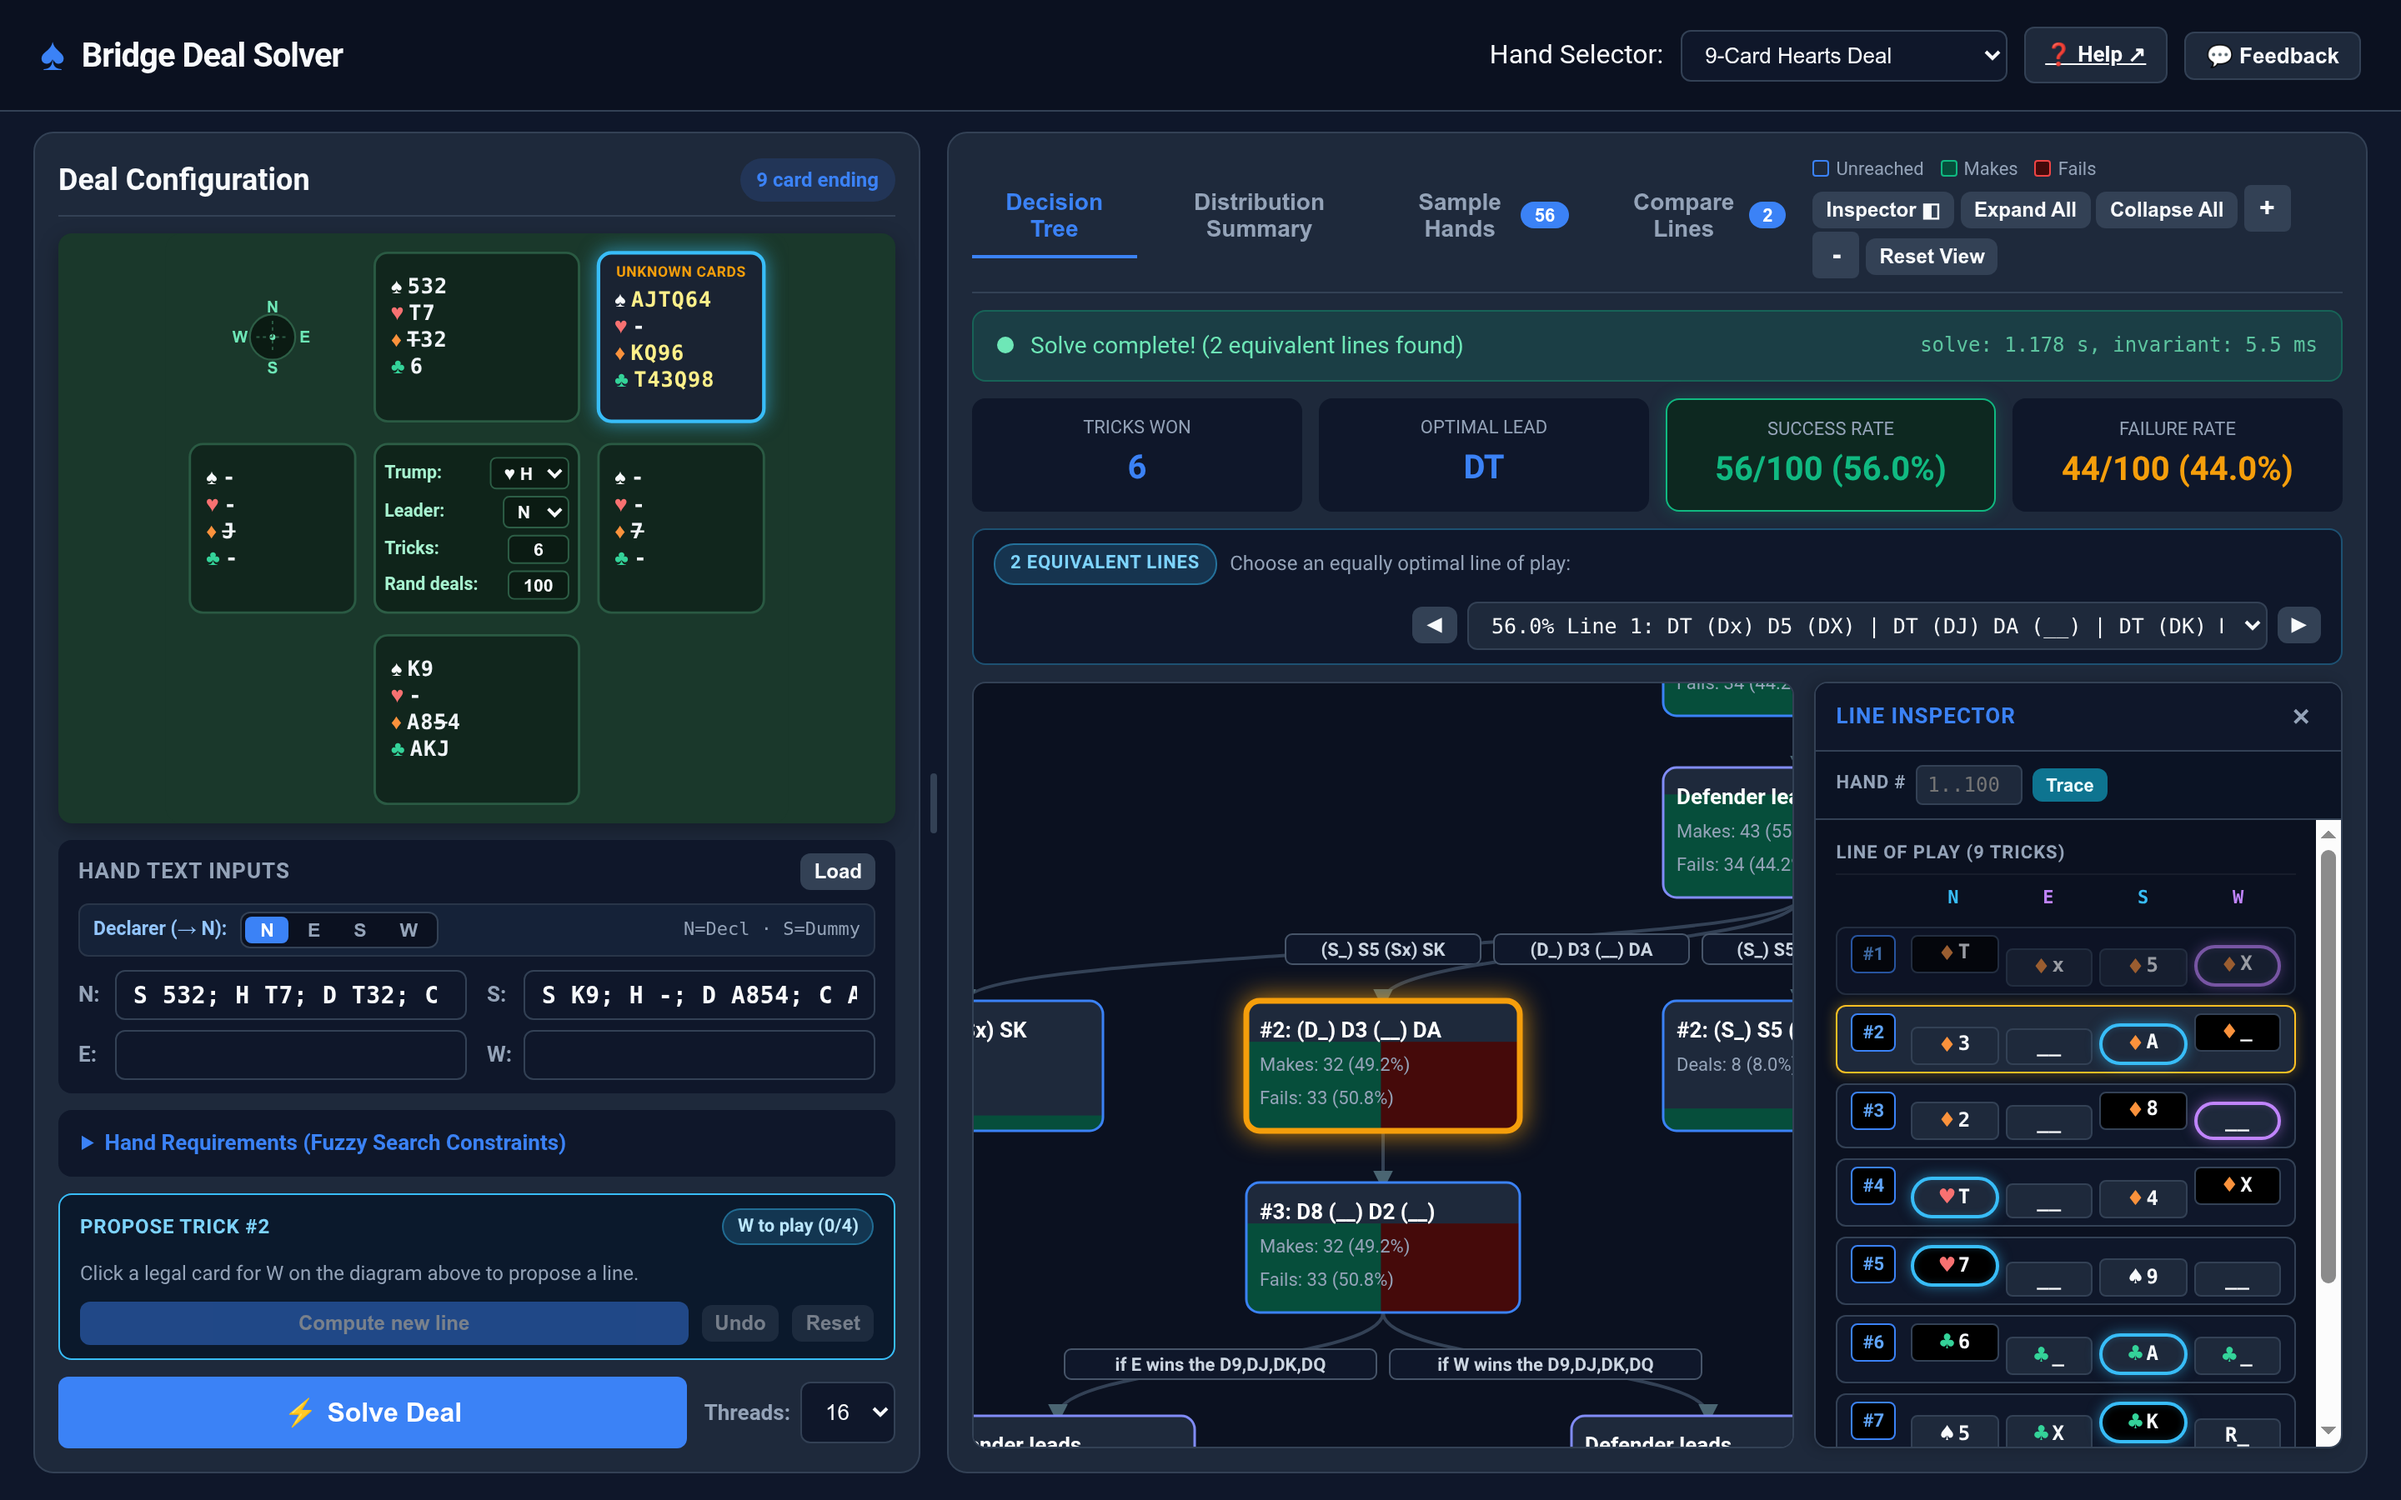
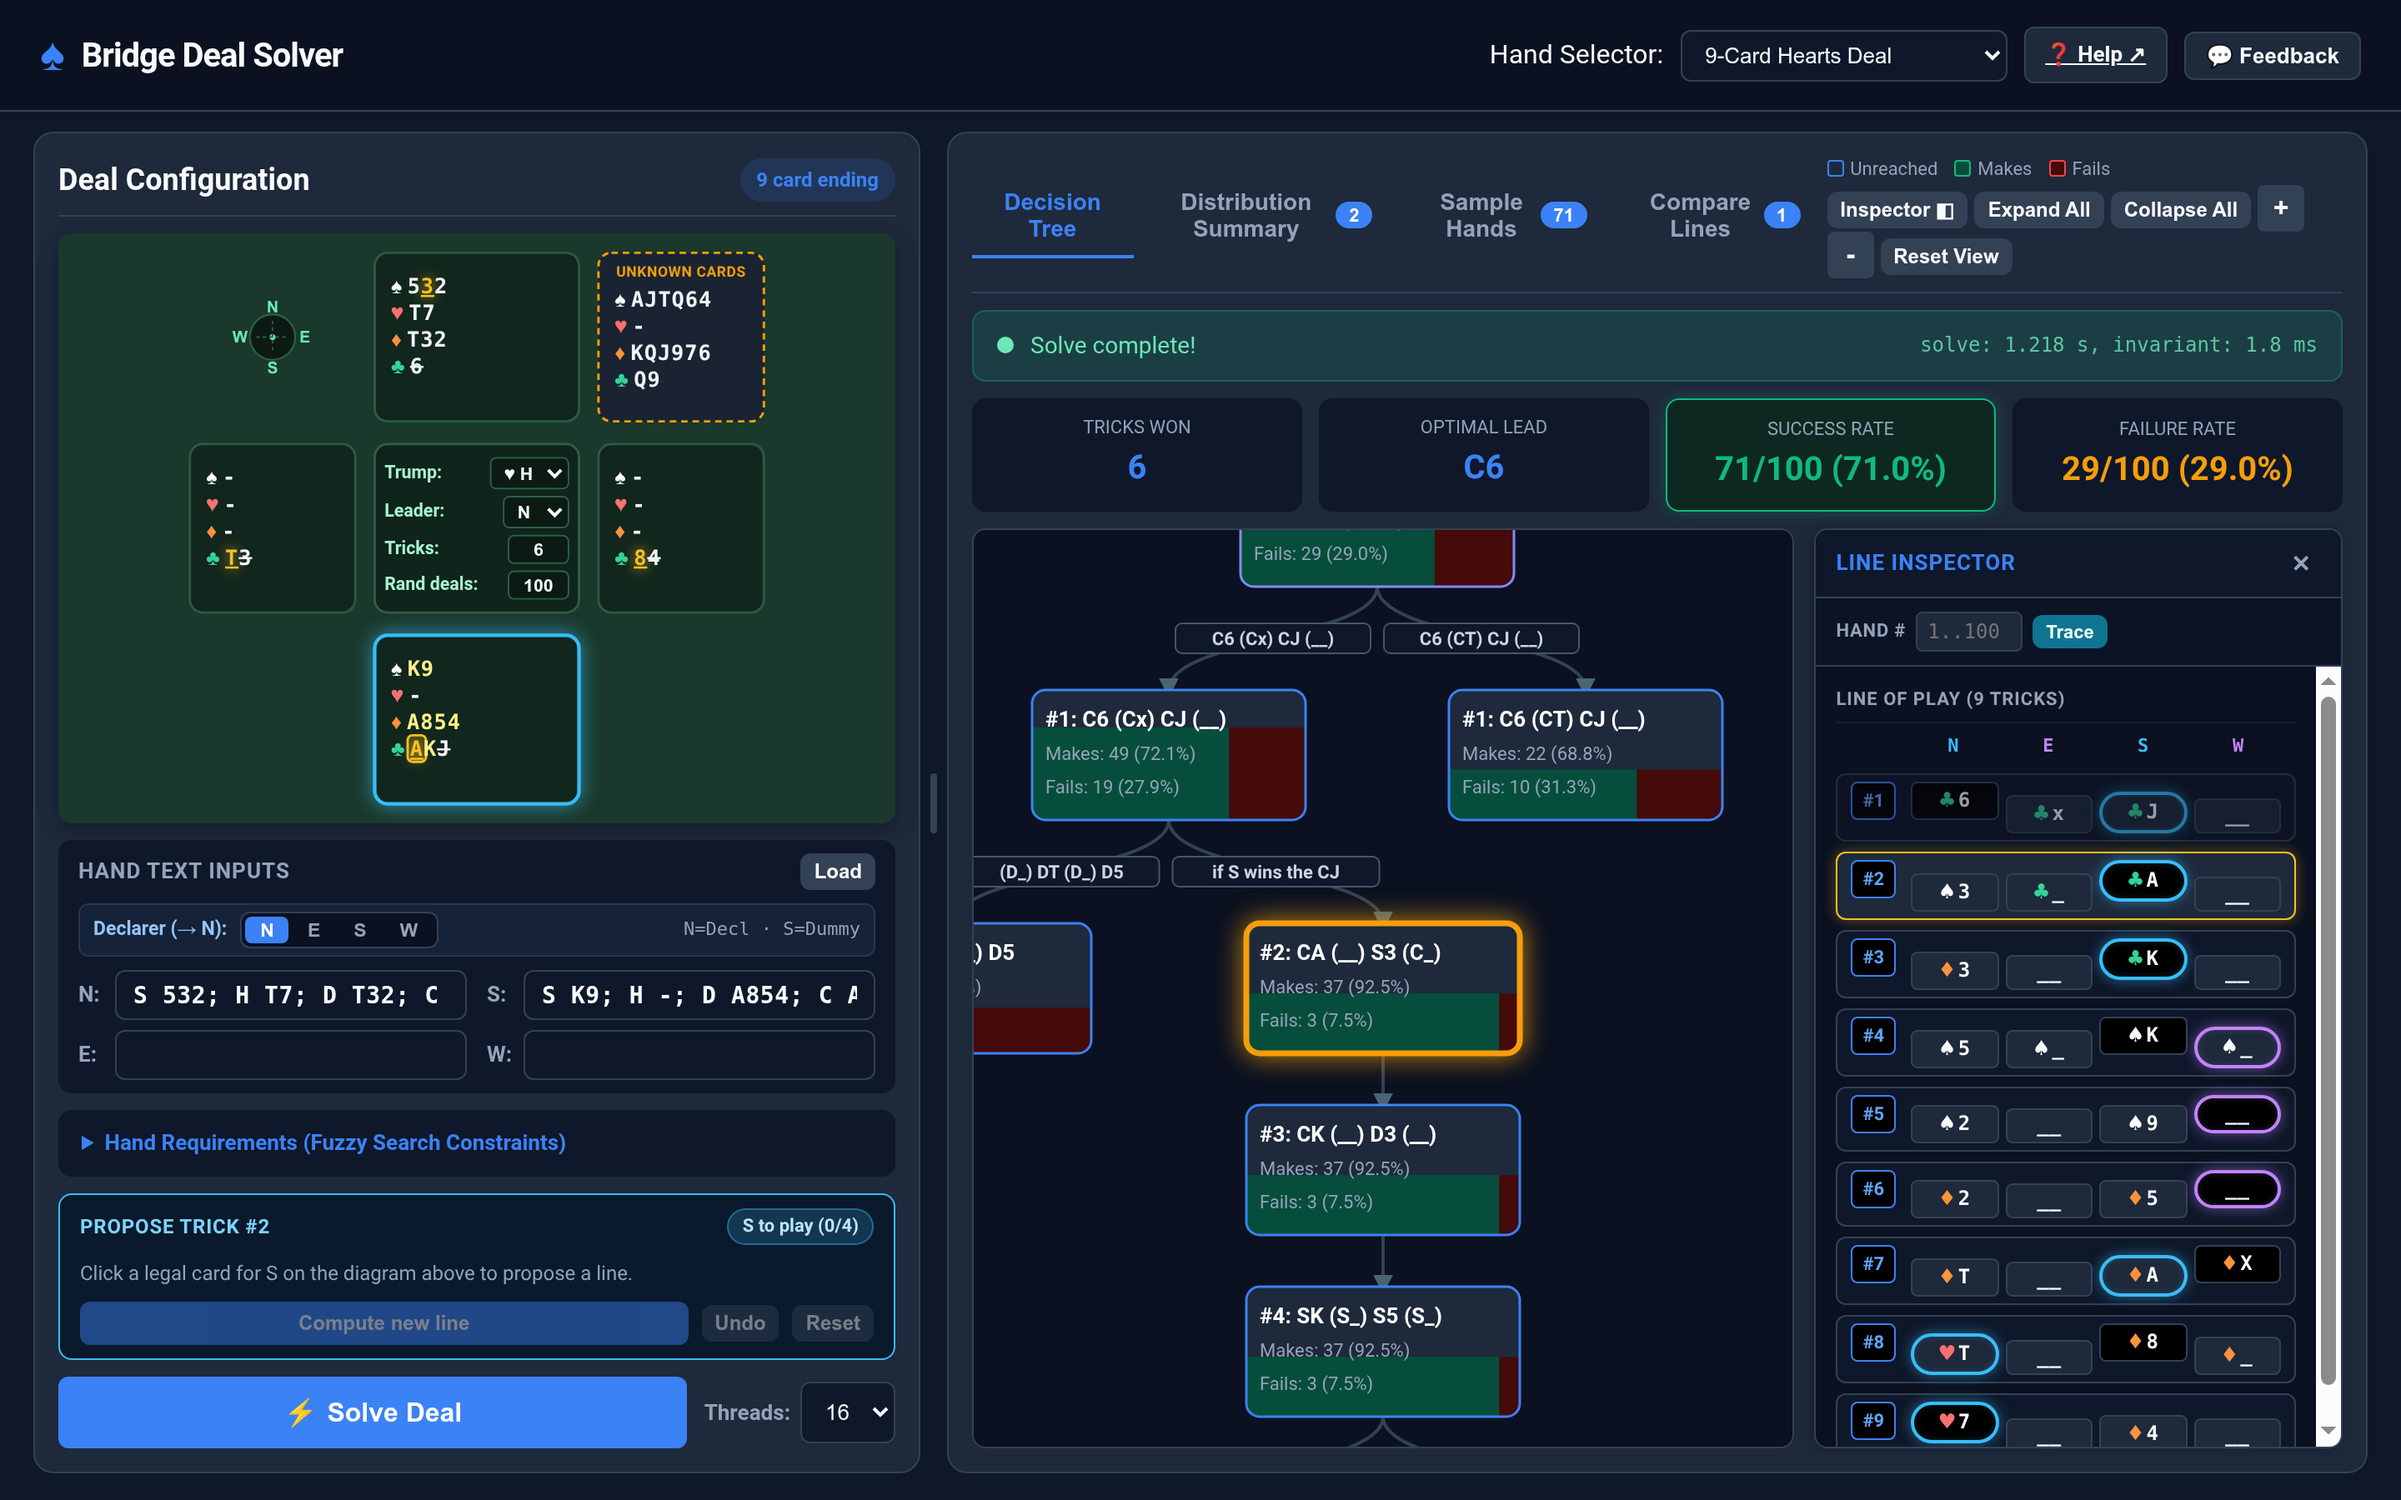
feat(ui): highlight selected trick cards and move E/W cards from Unknown Cards

diff --git a/web/static/app.js b/web/static/app.js
@@ -1925,17 +1925,23 @@ document.addEventListener('DOMContentLoaded', () => {
 
   function applyProposalStateToSvg() {
     if (!activeProposalContext) return;
-    const states = clonePlayStates(activeProposalContext.playedStates);
-    activeProposalContext.proposedCards.forEach((c, idx) => {
-      const entry = Object.assign({}, c, { isLead: idx === 0 });
-      if (c.fromUnknown) {
-        states.U.current.push(entry);
-      }
-      if (states[c.seatName]) {
-        states[c.seatName].current.push(entry);
-      }
-    });
-    activeTrickCardStates = states;
+    const minProposedCards = activeProposalContext.initialCurCount || 0;
+    if (activeProposalContext.proposedCards.length <= minProposedCards &&
+        activeProposalContext.selectedTrickStates) {
+      activeTrickCardStates = clonePlayStates(activeProposalContext.selectedTrickStates);
+    } else {
+      const states = clonePlayStates(activeProposalContext.playedStates);
+      activeProposalContext.proposedCards.forEach((c, idx) => {
+        const entry = Object.assign({}, c, { isLead: idx === 0 });
+        if (c.fromUnknown) {
+          states.U.current.push(entry);
+        }
+        if (states[c.seatName]) {
+          states[c.seatName].current.push(entry);
+        }
+      });
+      activeTrickCardStates = states;
+    }
     updateProposeLineBarUI();
     updateDealSvg();
   }
@@ -2131,6 +2137,13 @@ document.addEventListener('DOMContentLoaded', () => {
       if (tokenItems.length > 0) hasCards = true;
     });
 
+    const minProposedCards = activeProposalContext ? (activeProposalContext.initialCurCount || 0) : 0;
+    const isShowingSelectedTrickPreview = Boolean(
+      activeProposalContext &&
+      activeProposalContext.proposedCards.length <= minProposedCards &&
+      activeProposalContext.selectedTrickStates
+    );
+
     // Determine which suits are legal if this box is the active turn to play
     let legalSuits = null;
     if (playabilityInfo && playabilityInfo.isTurn) {
@@ -2138,7 +2151,9 @@ document.addEventListener('DOMContentLoaded', () => {
       if (playabilityInfo.forceLeadSuit && leadSuit) {
         legalSuits = new Set([leadSuit]);
       } else if (!isUnknown && leadSuit) {
-        const hasUnplayedLeadSuit = (suitTokenLists[leadSuit] || []).some(it => it.state === 'normal');
+        const hasUnplayedLeadSuit = (suitTokenLists[leadSuit] || []).some(
+          it => it.state === 'normal' || (isShowingSelectedTrickPreview && it.state === 'current')
+        );
         if (hasUnplayedLeadSuit) {
           legalSuits = new Set([leadSuit]);
         } else {
@@ -2190,7 +2205,8 @@ document.addEventListener('DOMContentLoaded', () => {
           const isPlayable = Boolean(
             legalSuits &&
             legalSuits.has(s.key) &&
-            item.state === 'normal'
+            (item.state === 'normal' ||
+             (isShowingSelectedTrickPreview && item.state === 'current' && !item.addedFromUnknown))
           );
           if (isPlayable) {
             cls += ' card-rank-playable';
@@ -2268,7 +2284,9 @@ document.addEventListener('DOMContentLoaded', () => {
       if (!suitKey) return false;
       const suits = parseHandToSuits(handStr);
       const baseTokens = tokenizeSuitRanks(suits[suitKey] || '-');
-      const st = activeTrickCardStates ? activeTrickCardStates[seatKey] : null;
+      const st = (activeProposalContext && activeProposalContext.playedStates)
+        ? activeProposalContext.playedStates[seatKey]
+        : (activeTrickCardStates ? activeTrickCardStates[seatKey] : null);
       const items = buildSeatSuitTokenList(suitKey, baseTokens, st, false);
       return items.some(it => it.state === 'normal');
     };
@@ -7259,6 +7277,11 @@ document.addEventListener('DOMContentLoaded', () => {
       }
 
       const selectedTrickRow = trickRows[selectedIdx];
+      const playedBeforeSelected = clonePlayStates(states);
+      const currentResolvedCards = resolveActualCardsForTrick(selectedTrickRow);
+      currentResolvedCards.forEach((c, idx) => recordCard(c, 'current', idx === 0));
+      const selectedTrickStates = clonePlayStates(states);
+
       const initCur = (selectedIdx === 0 && selectedTrickRow.trickNum === 1)
         ? getActiveInitialCurTrick()
         : [];
@@ -7283,7 +7306,8 @@ document.addEventListener('DOMContentLoaded', () => {
         selectedIdx: selectedIdx,
         leaderIdx: selectedTrickRow.leadSeatIdx,
         nsTricksBefore: nsTricksBefore,
-        playedStates: clonePlayStates(states),
+        playedStates: playedBeforeSelected,
+        selectedTrickStates: selectedTrickStates,
         prefixTrickRows: prefixTrickRows,
         initialCurCount: initialProposedCards.length,
         proposedCards: initialProposedCards.slice()

diff --git a/web/static/styles.css b/web/static/styles.css
@@ -1828,6 +1828,11 @@ body.is-resizing * {
   transition: fill 0.12s ease, filter 0.12s ease;
 }
 
+.card-rank-current.card-rank-playable {
+  fill: #fbbf24;
+  font-weight: 900;
+}
+
 .card-rank-playable:hover {
   fill: #38bdf8;
   text-decoration: underline;

diff --git a/web/server_test.cc b/web/server_test.cc
@@ -81,6 +81,7 @@ TEST(ServerTest, WebServerHealthAndStaticAssets) {
   ASSERT_TRUE(res_css->body.find(".card-chip.card-winner") != std::string::npos);
   ASSERT_TRUE(res_css->body.find("border-radius: 9999px") != std::string::npos);
   ASSERT_TRUE(res_css->body.find(".card-rank-playable") != std::string::npos);
+  ASSERT_TRUE(res_css->body.find(".card-rank-current.card-rank-playable") != std::string::npos);
   ASSERT_TRUE(res_css->body.find(".equivalent-lines-bar") != std::string::npos);
   ASSERT_TRUE(res_css->body.find(".compare-line-row") != std::string::npos);
   ASSERT_TRUE(res_css->body.find(".compare-stacked-bar") != std::string::npos);
@@ -111,6 +112,7 @@ TEST(ServerTest, WebServerHealthAndStaticAssets) {
   ASSERT_TRUE(res_js->body.find("function ensureCrossOriginIsolation") != std::string::npos);
   ASSERT_TRUE(res_js->body.find("function getNodeFillProportions") != std::string::npos);
   ASSERT_TRUE(res_js->body.find("node-fill-pat-") != std::string::npos);
+  ASSERT_TRUE(res_js->body.find("selectedTrickStates") != std::string::npos);
 
   // Test Presets Endpoints
   auto res_presets_file = client.Get("/presets.json");

diff --git a/docs/user-guide.md b/docs/user-guide.md
@@ -149,8 +149,11 @@ fixed **N / E / S / W** columns:
 - The **led card** has a highlighted border, and the **winning card** is badged
   in green (if won by N/S) or red/amber (if won by E/W).
 - **Clicking a Trick Row (or `#K` badge)** in the Inspector selects that trick:
-  - Earlier tricks' cards are shown **dimmed and struck through** on the left
-    SVG deal diagram so you can see exactly which cards remain at Trick `#K`.
+  - Earlier tricks' cards (`1..K-1`) are shown **dimmed and struck through** on
+    the left SVG deal diagram, while the cards played in Trick `#K` are
+    **highlighted in amber** (with a gold box around the led card) and any
+    defender cards from **UNKNOWN CARDS** are moved into East's and West's hands
+    respectively.
   - Clicking the selected trick row a second time clears the selection and
     restores the full starting hands.
 
